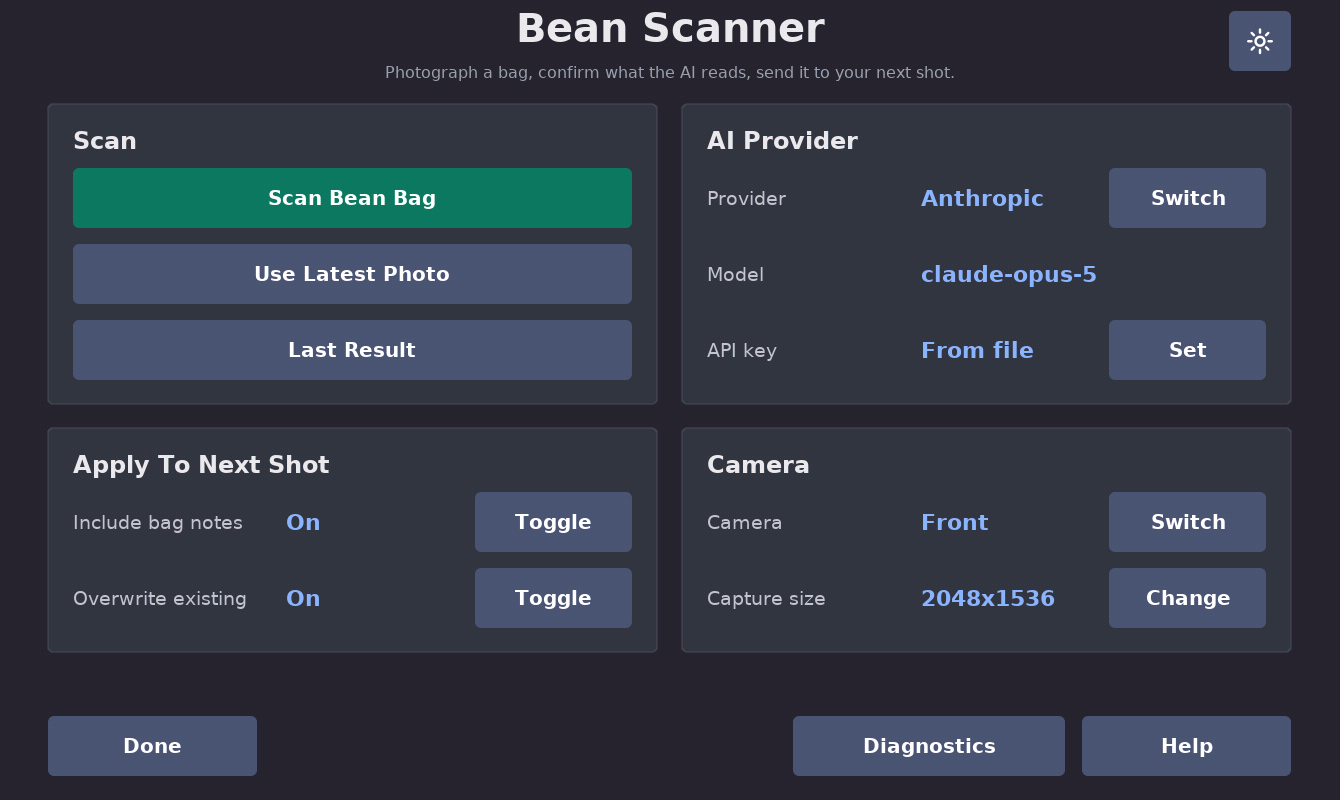
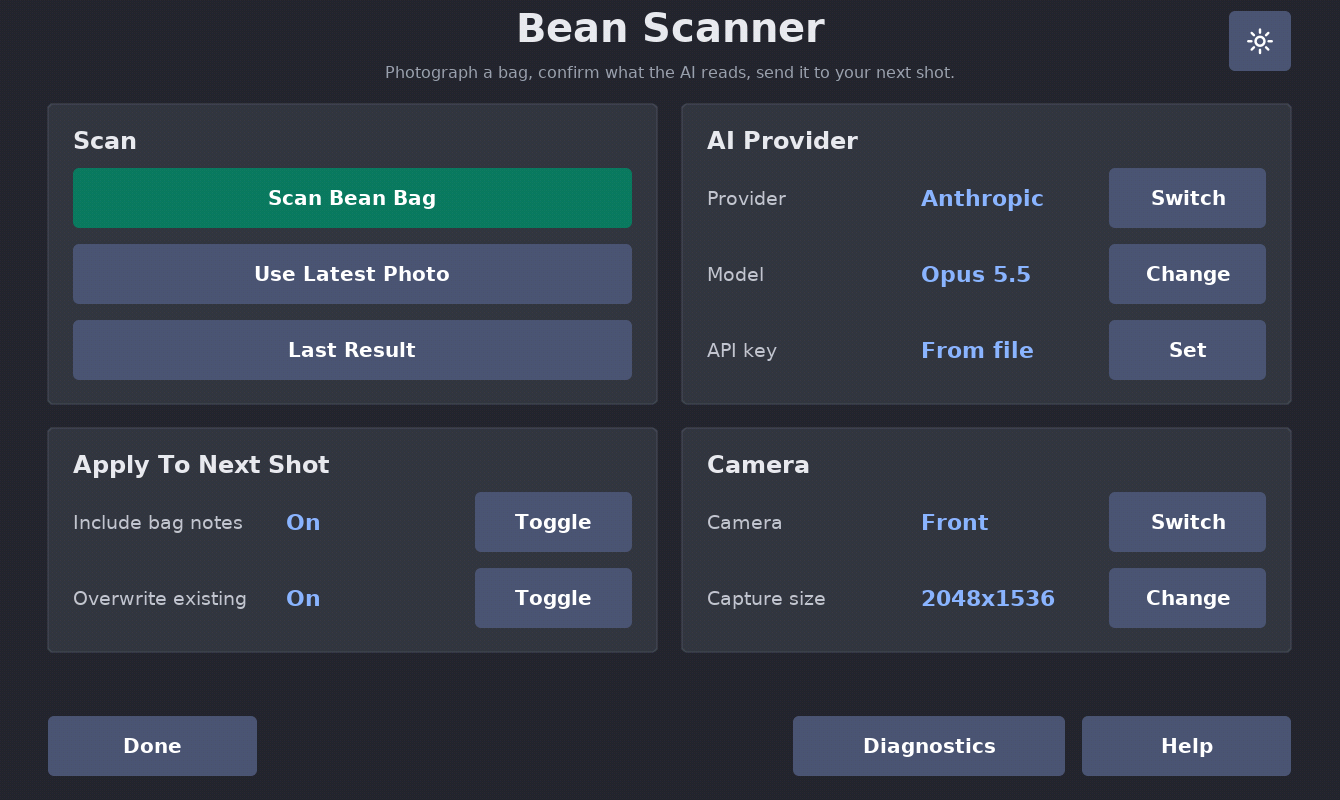
BeanScanner 0.12.1: Claude Opus 5.5 by default, model chosen on the tablet (Opus 5.5 / Sonnet 5.5 / Haiku 4.5)

Changed region(s): [[0.8261, 0.2812, 0.9485, 0.4062], [0.6731, 0.3125, 0.7955, 0.375]]

diff --git a/README.md b/README.md
@@ -1,7 +1,7 @@
 # Bean Scanner
 
 **Photograph the coffee bag. Claude or GPT reads the label and fills DYE's next shot after you confirm.**
-Version 0.11.0 · a plugin for the Decent DE1app · by Blastize
+Version 0.12.1 · a plugin for the Decent DE1app · by Blastize
 
 ![The camera page: shutter circle, flash, flip camera, trash and Send](docs/camera.jpg)
 
@@ -9,7 +9,7 @@ Version 0.11.0 · a plugin for the Decent DE1app · by Blastize
 
 ![The settings page: scan buttons, AI provider and model, camera and capture size](docs/settings-page.png)
 
-**Settings.** Scan, reuse the latest photo or reopen the last result. Choose Claude or GPT and the model, set your API key, pick the camera and capture size. Light and dark palette; every caption, label and value in both meets WCAG AA contrast. New in 0.11.0: text at its full design size, every button darkens the moment your finger lands, and the main action on a page (Scan Bean Bag, Accept) is green.
+**Settings.** Scan, reuse the latest photo or reopen the last result. Choose Claude or GPT and the model (Change cycles Claude Opus 5.5, Sonnet 5.5 and Haiku 4.5), set your API key, pick the camera and capture size. Light and dark palette; every caption, label and value in both meets WCAG AA contrast. New in 0.11.0: text at its full design size, every button darkens the moment your finger lands, and the main action on a page (Scan Bean Bag, Accept) is green.
 
 ## Recommended: the Lumen skin
 
@@ -147,7 +147,7 @@ Settings → App → Extensions.
 | Setting | What it does |
 |---|---|
 | Provider | Anthropic or OpenAI. Each keeps its own model name and key. |
-| Model | The model id sent to the provider. Change the default in `plugin.tcl`. |
+| Model | The model sent to the provider; Change cycles Claude Opus 5.5 (default), Sonnet 5.5 and Haiku 4.5. GPT uses gpt-4o. |
 | API key | Opens the key entry page for the selected provider. |
 | Camera | Front / Back / Auto. Front is the default (the tablet faces you). |
 | Capture size | 640x480 up to 2048x1536. Bigger reads small print better but uploads slower. |

diff --git a/CHANGELOG.md b/CHANGELOG.md
@@ -5,6 +5,24 @@ added or changed a write capability keep their full write-path text). The
 long pre-trim entries survive in the "Version archive/BeanScanner Archive"
 snapshot of each version.
 
+## v0.12.1 - 2026-10-12 - model names fit one line - TABLET-VERIFIED (verify.sh PASS run 1)
+
+Base: v0.12.0 (verify PASS run 1; its screenshot showed "Claude Opus 5.5" wrapping to two
+lines in the Model row). The row now reads "Opus 5.5" / "Sonnet 5.5" / "Haiku 4.5"; the
+Provider row above already says Anthropic. Polish only. Safety status: unchanged, no new write.
+
+## v0.12.0 - 2026-10-12 - Claude Opus 5.5, and the model is chosen on the tablet
+
+Base: v0.11.0. Feature (minor). Owner 2026-10-12: "is beanscanner using opus 5.5?" -- it was not.
+* Default Anthropic model `claude-opus-5` -> `claude-opus-5-5` (Claude Opus 5.5). A saved
+  `claude-opus-5` is lifted once in apply_defaults: it could not be chosen before, so it is the
+  old default, not a choice; any other saved value is kept.
+* Settings: the Model row gets a Change button that cycles Opus 5.5, Sonnet 5.5 and Haiku 4.5
+  (GPT keeps gpt-4o), saved per provider; the row shows the name ("Claude Opus 5.5").
+* Offline: passes/BeanScanner/model_0.12.0_offline.tcl 12 PASS (v0.11.0 fails 5).
+* Safety status: unchanged -- the same plugin settings file is written, now also on a model
+  change; no new write.
+
 ## v0.11.0 - 2026-10-02 - the look batch (F8, F9, F10, F21)
 
 Base: v0.10.1.
